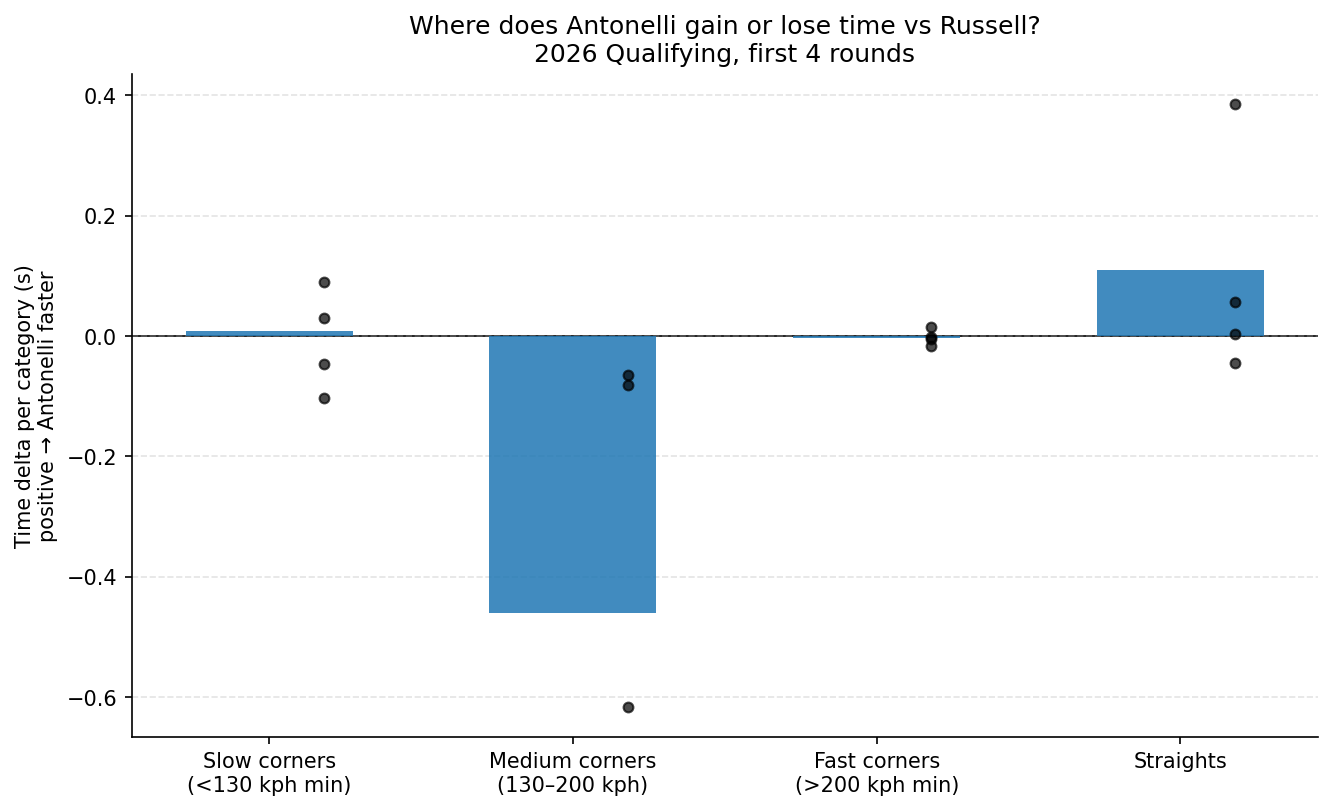
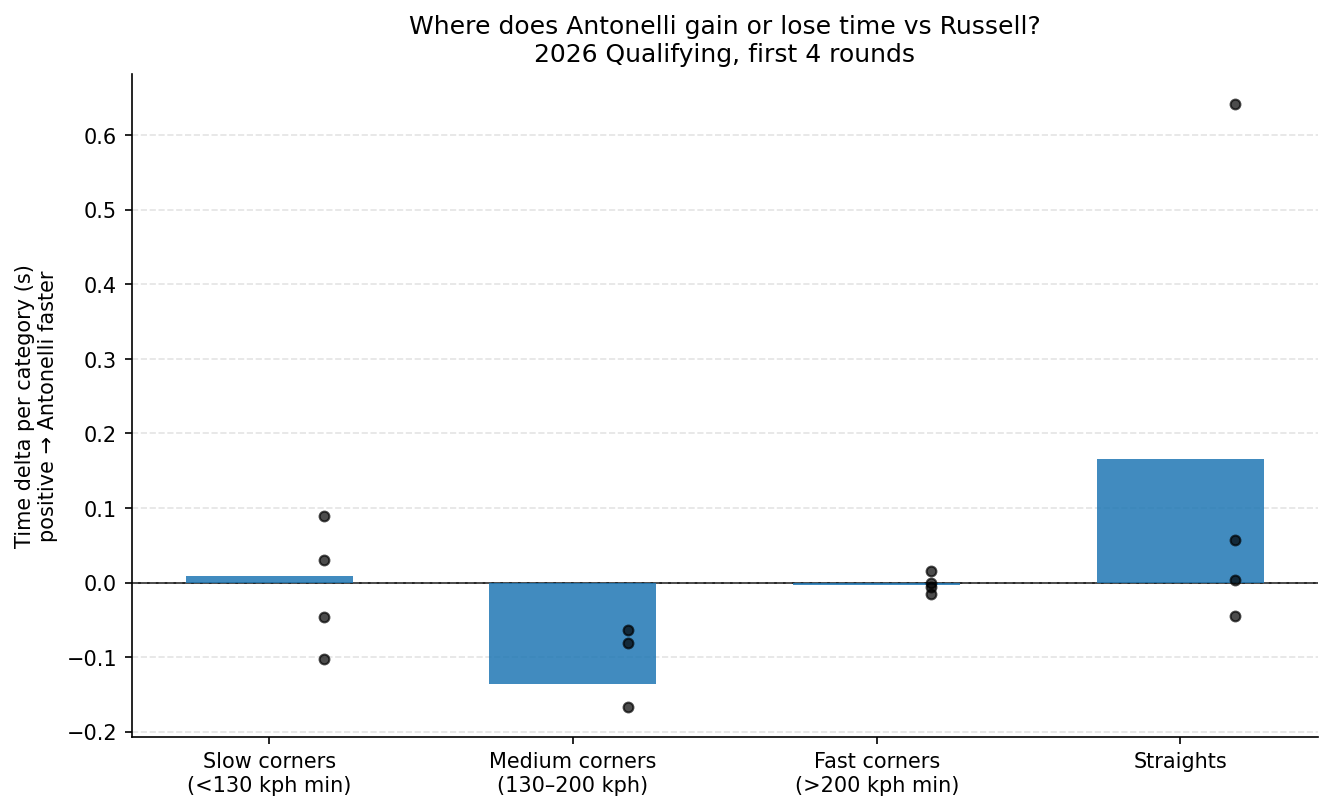
feat: detect frozen-speed-sensor segments and exclude them from headline
A diagnostic check: when a driver's Speed channel shows <=5 unique values
across >=20 samples in a segment, the sensor has frozen and that segment's
min_speed, category label, integrated Distance, and X/Y trajectory are all
unreliable. The Time channel is independent, so lap-level deltas and the
sector-time cross-check remain valid.

Two Japan segments were flagged (S8 straight, C8 medium_corner) and excluded
from the headline category analysis. The medium-corner deficit shrinks from
-0.46s/lap to -0.14s/lap; the straight-line advantage grows from +0.11 to
+0.17 s/lap. The lap-level +0.16 average and the AU->Miami trajectory
are unchanged.

- benchmarks.py: add _detect_sensor_freeze() + sensor_ok column on segments
- notebook: new sensor-quality diagnostic cell, headline chart filters on
  sensor_ok, interpretation and conclusion cells updated with new numbers
- README: headline bullets updated, Limitations adds a Telemetry sensor
  freezes paragraph documenting detection and Japan-specific cross-check

diff --git a/src/benchmarks.py b/src/benchmarks.py
@@ -23,6 +23,30 @@ from src.segments import (
 SLOW_CORNER_MAX_KPH = 130.0
 FAST_CORNER_MIN_KPH = 200.0
 
+# Sensor-freeze detection: when a car's Speed channel reports only a handful
+# of unique values across many samples within a segment, the sensor has frozen
+# and the segment's speed/distance/X/Y data is unreliable. The Time channel
+# (and therefore lap-level time deltas) is independent and remains correct.
+SENSOR_FREEZE_MIN_SAMPLES = 20
+SENSOR_FREEZE_MAX_UNIQUE_SPEEDS = 5
+
+
+def _detect_sensor_freeze(tel: pd.DataFrame, segments: pd.DataFrame) -> list:
+    """Per-segment: True if the Speed sensor looks healthy, False if frozen."""
+    distance = tel['Distance'].values
+    speed = tel['Speed'].values
+    flags = []
+    for row in segments.itertuples():
+        mask = (distance >= row.start_m) & (distance < row.end_m)
+        if mask.sum() < SENSOR_FREEZE_MIN_SAMPLES:
+            # Too few samples to judge — assume OK; the segment-time computation
+            # already handles low-sample-count cases separately.
+            flags.append(True)
+            continue
+        nunique = int(pd.Series(speed[mask]).nunique())
+        flags.append(nunique > SENSOR_FREEZE_MAX_UNIQUE_SPEEDS)
+    return flags
+
 
 def _derive_q_session(session, lap) -> Optional[int]:
     """
@@ -144,6 +168,13 @@ def compare_teammates(
     deltas['category'] = [
         _classify_segment(k, m) for k, m in zip(deltas['kind'], deltas['min_speed'])
     ]
+
+    # Flag segments where either driver's speed sensor looks frozen — in those
+    # segments min_speed is unreliable and the category label may be wrong
+    # (the time delta itself is still reliable, since Time is independent).
+    ok_a = _detect_sensor_freeze(tel_a, deltas)
+    ok_b = _detect_sensor_freeze(tel_b, deltas)
+    deltas['sensor_ok'] = [a and b for a, b in zip(ok_a, ok_b)]
 
     q_a = _derive_q_session(session, lap_a)
     q_b = _derive_q_session(session, lap_b)

diff --git a/README.md b/README.md
@@ -11,8 +11,8 @@ I built this to dig into Kimi Antonelli's 2026 season racing for Mercedes by com
 After the first 4 rounds of 2026:
 
 - **Antonelli has overtaken Russell.** He was 0.29 s slower at Australia (R1) but has been faster every round since, with the margin growing each race: R2 +0.22 s → R3 +0.30 s → R4 +0.40 s. The four-race mean is +0.16 s in his favour, but across the 4 races there is a clear monotone trend.
-- **Where Antonelli loses time:** medium-speed corners (130–200 kph), at −0.46 s/lap on average. This signal is driven primarily by a single Japan outlier — Suzuka's S-curves (C7/C8, ~189 kph minimum speed) contribute −0.62 s in that category alone, nearly 10× the medium-corner delta seen at other rounds.
-- **Where he's already competitive:** fast corners (>200 kph) and slow corners (<130 kph) are essentially level with Russell (−0.003 s and +0.009 s respectively). On straights Antonelli actually gains +0.11 s/lap.
+- **Where Antonelli loses time:** medium-speed corners (130–200 kph), at −0.14 s/lap on average — a small but consistent deficit. *(An earlier version of this finding put the medium-corner gap at −0.46 s/lap, but it turned out two Japan segments had a frozen telemetry sensor that misclassified them; see [Limitations](#limitations).)*
+- **Where he's gaining the most:** straights, **+0.17 s/lap** — the largest and most consistent positive across all four rounds. Fast corners (>200 kph) and slow corners (<130 kph) are essentially level with Russell (−0.003 s and +0.009 s respectively).
 - **Trajectory:** the gap has shifted in Antonelli's favour every single round — from −0.29 s (Russell faster) at Australia to +0.40 s (Antonelli faster) at Miami, a monotone swing of 0.69 s across four rounds.
 
 ![Headline chart: per-segment time delta across four races](figures/headline_segment_delta.png)
@@ -95,6 +95,7 @@ A short list of what this analysis does _not_ control for:
 - **Traffic.** Out-laps, in-laps, and other cars on track affect achievable lap time.
 - **Tire age within Q.** Same compound, but tire-age within a Q-session run can differ by a few laps.
 - **Setup divergence.** Mercedes drivers don't always run identical setups. Public data can't distinguish driver delta from setup delta.
+- **Telemetry sensor freezes.** FastF1's car telemetry occasionally stops reporting changes for long stretches — Antonelli's Japan lap is the clearest case in this dataset, with the speed sensor stuck at 189 kph from ≈ 4000 m to the end of the lap. When that happens, integrated `Distance`, `Speed`, and the X/Y trajectory all become unreliable in the affected segments. Lap-level and sector-level deltas are unaffected (those come from timing-line beams, independent of the car telemetry), and I checked Japan's sector splits to confirm Antonelli's +0.30 s lap advantage is real. The notebook detects sensor freezes by checking unique-`Speed`-value counts per segment, lists which segments were flagged, and excludes them from the category headline.
 
 These caveats matter. I treated this as a careful look at what the available telemetry shows, not a definitive verdict on relative driver skill.
 